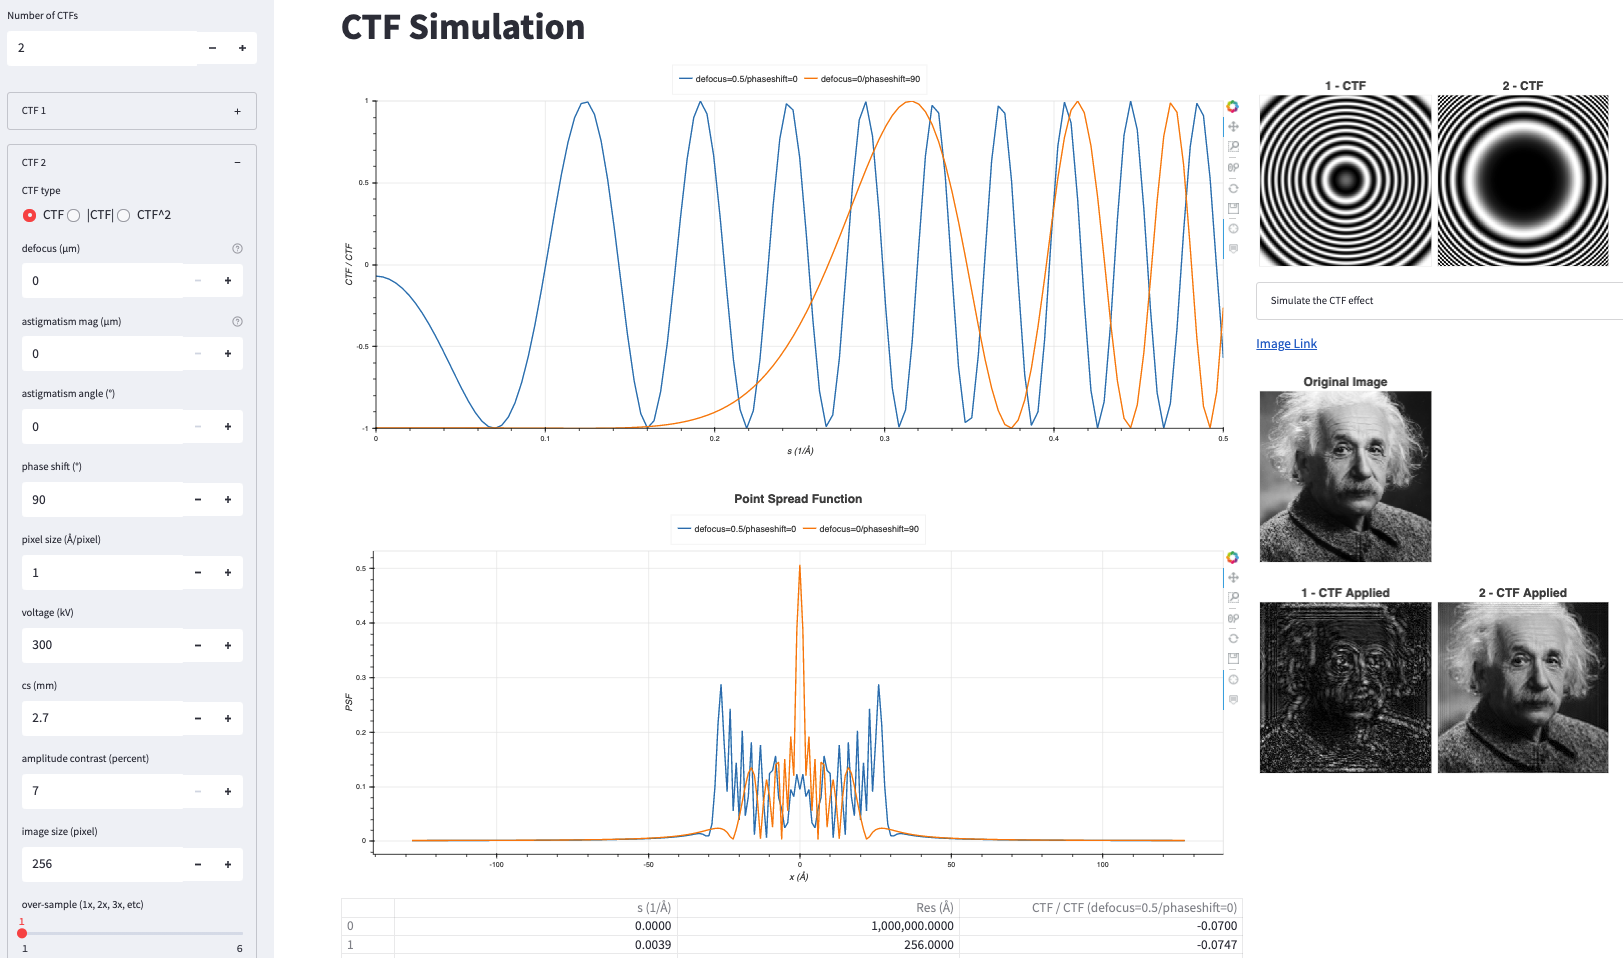
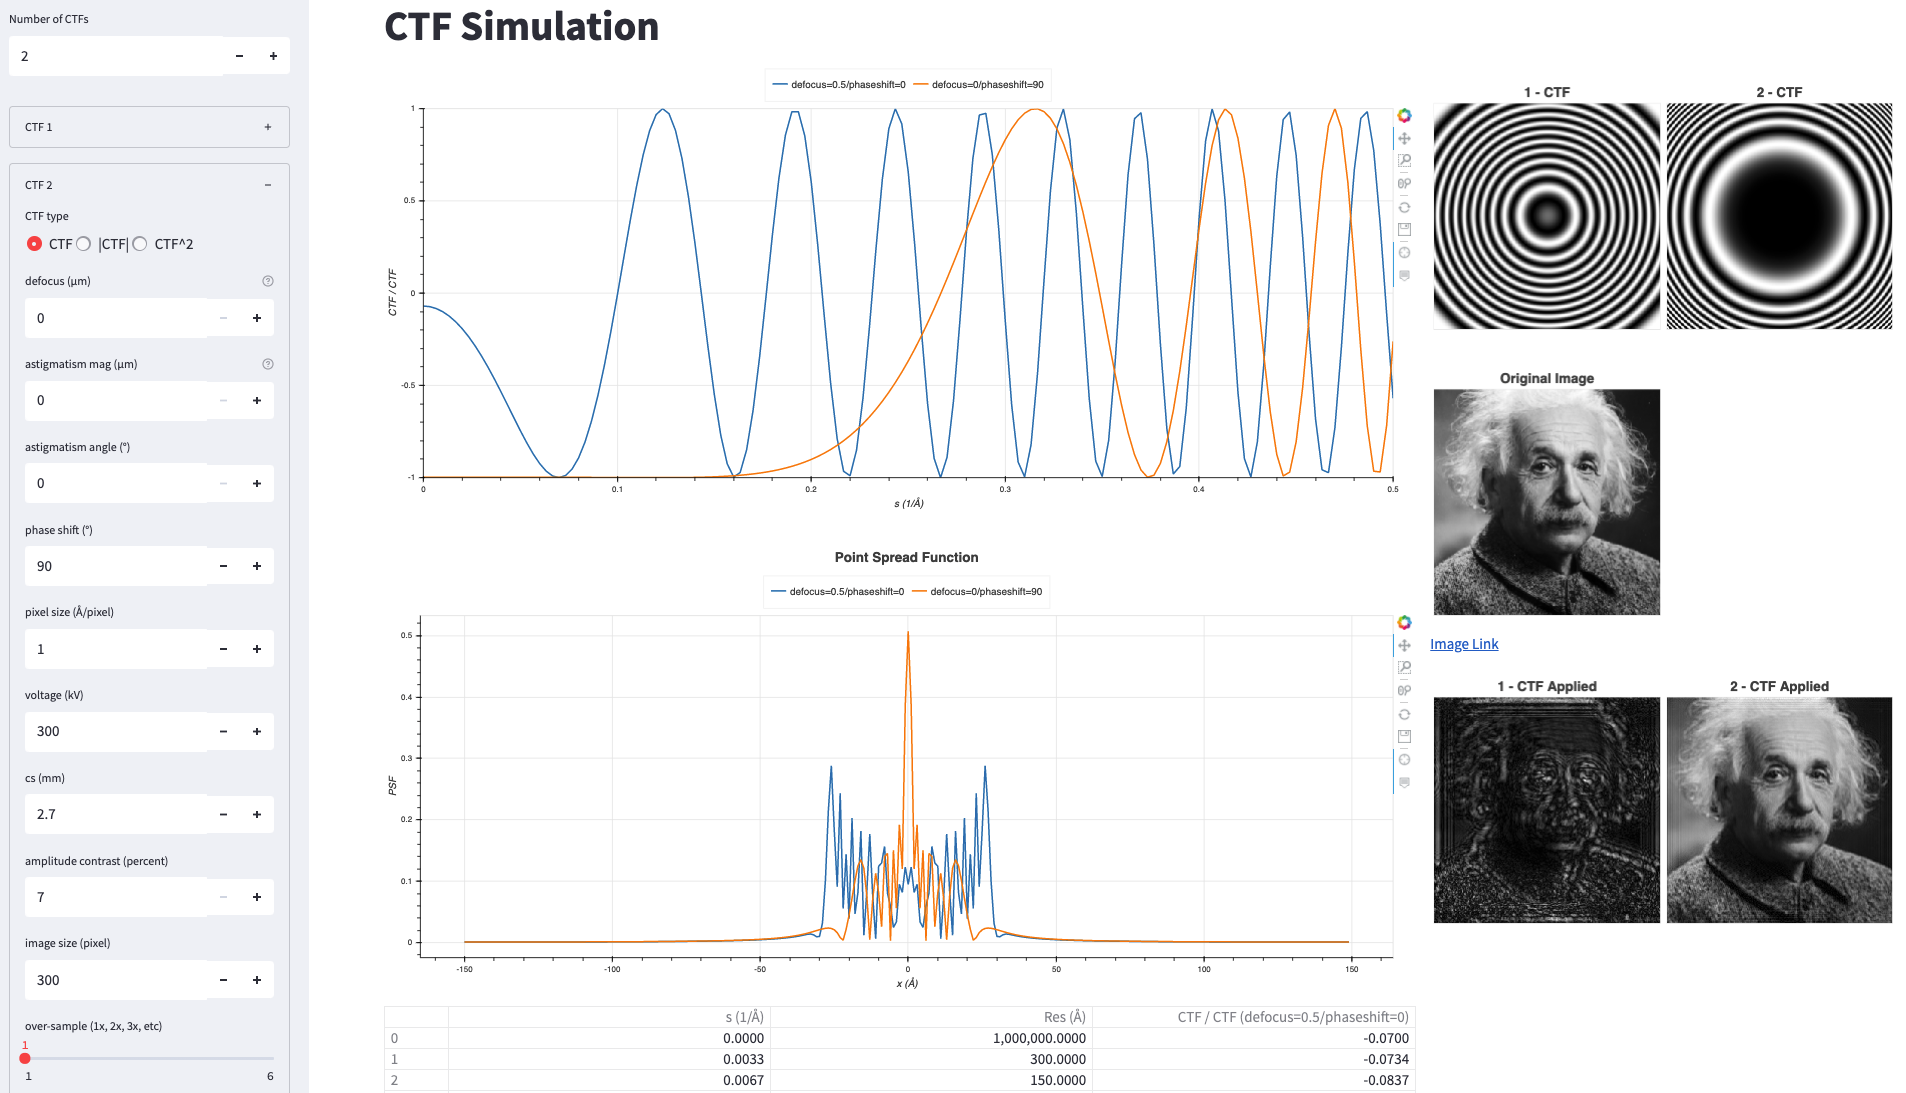
show 2D ctfs/images at the bottom or on the right

diff --git a/ctf_simulation.py b/ctf_simulation.py
@@ -46,6 +46,7 @@ import numpy as np
 def main():
     title = "CTF Simulation"
     st.set_page_config(page_title=title, layout="wide")
+    st.title(title)
 
     session_state = st.session_state
     if "defocus_0" not in session_state:  # only run once at the start of the session
@@ -56,13 +57,11 @@ def main():
     ctfs = get_ctfs_from_session_state()
 
     if embed:
-        col1, col2 = st.columns((1, 5))
-        col_info = col2
+        col_params, col_1d = st.columns((1, 5))
     else:
-        st.title(title)
-        col1 = st.sidebar
+        col_params = st.sidebar
 
-    with col1:
+    with col_params:
         if embed:
             n = 1
         else:
@@ -146,6 +145,9 @@ def main():
             if show_2d:
                 value = int(st.session_state.get("simulate_ctf_effect", 0))
                 simulate_ctf_effect = st.checkbox('Simulate CTF effect on images', value=value, key="simulate_ctf_effect")
+                if simulate_ctf_effect:
+                    simulate_ctf_effect_container = st.container()
+                show_2d_right = st.checkbox("Show 2D CTF/images on the right", value=False, key="show_2d_right")
 
             if show_1d or show_2d:
                 value = int(st.session_state.get("plot_s2", 0))
@@ -159,18 +161,14 @@ def main():
     ctf_labels = ctf_varying_parameter_labels(ctfs)
 
     if not embed:
-        if show_1d:
-            if show_2d:
-                col2, col3 = st.columns((5, 2))
-            else:
-                col2, col3 = st.columns((1, 0.01))
-            col_info = col2
+        if show_2d and show_2d_right:
+            col_1d, col_2d = st.columns((5, 2))
         else:
-            col2, col3 = st.columns((0.01, 1))
-            col_info = col3
+            col_1d, _ = st.columns((1, 0.01))
+            col_2d = col_1d
 
     if show_1d:
-        with col2:
+        with col_1d:
             from bokeh.plotting import figure
             from bokeh.models import LegendItem
             if plot_s2:
@@ -300,26 +298,10 @@ def main():
                         fig.js_on_event(DoubleTap, toggle_legend_js)
                     st.text("") # workaround for a layout bug in streamlit 
                     st.bokeh_chart(fig, use_container_width=True)
-                    del fig
-
-                if show_data:
-                    import pandas as pd
-                    for i, (col3_label, s, x, ctf) in enumerate(raw_data):
-                        columns = [x_label, "Res (Å)", col3_label]
-                        maxlen = max(map(len, columns))
-                        columns = [col.rjust(maxlen+10) for col in columns]
-                        data = np.zeros((len(x), 3))
-                        data[:,0] = x
-                        s[0] = 1e-6 # avoid divsion by zero warning
-                        data[:,1] = 1./s
-                        data[:,2] = ctf
-                        df = pd.DataFrame(data, columns=columns)
-                        st.dataframe(df, width=None)
-                        label = f"Download the data - {col3_label}"
-                        st.markdown(get_table_download_link(df, label=label), unsafe_allow_html=True)
+                    del fig                
 
     if show_2d and not embed:
-        with col3:
+        with col_2d:
             st.text("") # workaround for a layout bug in streamlit 
 
             show_color = False
@@ -349,42 +331,43 @@ def main():
                 del fig2d
             
             if simulate_ctf_effect:
-                with st.expander("Simulate the CTF effect"):
-                    input_modes = ["Pattern"]
-                    emdb_ids = get_emdb_ids()
-                    input_modes += ["EMDB ID"]
-                    if "emd_id" not in session_state:
-                        import random
-                        session_state.emd_id = random.choice(emdb_ids)
-                    input_modes += ["URL"]
-                    input_mode = st.radio(label="Choose an input mode:", options=input_modes, index=2, key="input_mode")
-                    if input_mode == "Pattern":
-                        mapping = \
-                            {   "Lens Focus Test Chart" : "https://i.ebayimg.com/images/g/~goAAOSw-o9cXayp/s-l1600.jpg", \
-                                "TV Test Signal" : "https://cdn4.vectorstock.com/images/1000x1000/67/43/1946743.jpg?download=1", \
-                                "Spiral Rainbow Sqaures" : "http://www.ulrichmutze.de/cpmgraphics/testpattern.jpg"
-                            }
-                        pattern_option = st.selectbox('Select a geometric pattern', options=["Delta Function"] + list(mapping.keys()), key="pattern")
-                        if pattern_option not in ["Delta Function"]:
-                            input_txt = mapping[pattern_option]
-                    elif input_mode == "EMDB ID":
-                        do_random_embid = st.checkbox("Choose a random EMDB ID", value=False)
-                        if do_random_embid:
-                            help = "Randomly select another EMDB ID"
-                            button_clicked = st.button(label="Change EMDB ID", help=help)
-                            if button_clicked:
-                                import random
-                                session_state.emd_id = random.choice(emdb_ids)
-                            input_txt = f"EMD-{session_state.emd_id}"
-                        else:
-                            label = "Input an EMDB ID"
-                            value = f"EMD-{session_state.emd_id}"
-                            input_txt = st.text_input(label=label, value=value).strip()
-                            session_state.emd_id = input_txt.lower().split("emd_")[-1]
-                    elif input_mode == "URL":
-                        label = "Input an image url:"
-                        value = "https://upload.wikimedia.org/wikipedia/commons/d/d3/Albert_Einstein_Head.jpg"
-                        input_txt = st.text_input(label=label, value=value, key="url").strip()
+                with simulate_ctf_effect_container:
+                    with st.expander("Specify a simulation image", expanded=False):
+                        input_modes = ["Pattern"]
+                        emdb_ids = get_emdb_ids()
+                        input_modes += ["EMDB ID"]
+                        if "emd_id" not in session_state:
+                            import random
+                            session_state.emd_id = random.choice(emdb_ids)
+                        input_modes += ["URL"]
+                        input_mode = st.radio(label="Choose an input mode:", options=input_modes, index=2, key="input_mode")
+                        if input_mode == "Pattern":
+                            mapping = \
+                                {   "Lens Focus Test Chart" : "https://i.ebayimg.com/images/g/~goAAOSw-o9cXayp/s-l1600.jpg", \
+                                    "TV Test Signal" : "https://cdn4.vectorstock.com/images/1000x1000/67/43/1946743.jpg?download=1", \
+                                    "Spiral Rainbow Sqaures" : "http://www.ulrichmutze.de/cpmgraphics/testpattern.jpg"
+                                }
+                            pattern_option = st.selectbox('Select a geometric pattern', options=["Delta Function"] + list(mapping.keys()), key="pattern")
+                            if pattern_option not in ["Delta Function"]:
+                                input_txt = mapping[pattern_option]
+                        elif input_mode == "EMDB ID":
+                            do_random_embid = st.checkbox("Choose a random EMDB ID", value=False)
+                            if do_random_embid:
+                                help = "Randomly select another EMDB ID"
+                                button_clicked = st.button(label="Change EMDB ID", help=help)
+                                if button_clicked:
+                                    import random
+                                    session_state.emd_id = random.choice(emdb_ids)
+                                input_txt = f"EMD-{session_state.emd_id}"
+                            else:
+                                label = "Input an EMDB ID"
+                                value = f"EMD-{session_state.emd_id}"
+                                input_txt = st.text_input(label=label, value=value).strip()
+                                session_state.emd_id = input_txt.lower().split("emd_")[-1]
+                        elif input_mode == "URL":
+                            label = "Input an image url:"
+                            value = "https://upload.wikimedia.org/wikipedia/commons/d/d3/Albert_Einstein_Head.jpg"
+                            input_txt = st.text_input(label=label, value=value, key="url").strip()
                 
                 image = None
                 link = None
@@ -414,13 +397,15 @@ def main():
                         st.warning(f"{url} is not a valid image link")
                 elif len(input_txt):
                     st.warning(f"{input_txt} is not a valid image link")
+                
                 if image is not None:
+                    st.text("") # workaround for a layout bug in streamlit 
                     import_with_auto_install(["skimage:scikit_image"])
-                    if link: st.markdown(link, unsafe_allow_html=True)
                     image = normalize(image)
                     fig2d = generate_image_figure(image, dxy=1.0, ctf_type=None, title="Original Image", plot_s2=False, show_color=show_color)
                     st.bokeh_chart(fig2d, use_container_width=True)
                     del fig2d
+                    if link: st.markdown(link, unsafe_allow_html=True)
 
                     fig2ds = []
                     for i in range(n):
@@ -448,11 +433,26 @@ def main():
                     else:
                         st.bokeh_chart(fig2d, use_container_width=True)
                         del fig2d
+    
+    if not embed and show_1d and show_data:
+        with col_1d:
+            import pandas as pd
+            for i, (col3_label, s, x, ctf) in enumerate(raw_data):
+                columns = [x_label, "Res (Å)", col3_label]
+                maxlen = max(map(len, columns))
+                columns = [col.rjust(maxlen+10) for col in columns]
+                data = np.zeros((len(x), 3))
+                data[:,0] = x
+                s[0] = 1e-6 # avoid divsion by zero warning
+                data[:,1] = 1./s
+                data[:,2] = ctf
+                df = pd.DataFrame(data, columns=columns)
+                st.dataframe(df, width=None)
+                label = f"Download the data - {col3_label}"
+                st.markdown(get_table_download_link(df, label=label), unsafe_allow_html=True)
 
-    with col_info:
         if not embed:
             st.markdown("**Learn more about [Contrast Transfer Function (CTF)](https://en.wikipedia.org/wiki/Contrast_transfer_function):**\n* [Getting Started in CryoEM, Grant Jensen](https://www.youtube.com/watch?v=mPynoF2j6zc&t=2s)\n* [CryoEM Principles, Fred Sigworth](https://www.youtube.com/watch?v=Y8wivQTJEHQ&list=PLRqNpJmSRfar_z87-oa5W421_HP1ScB25&index=5)\n")
-
         st.markdown("*Developed by the [Jiang Lab@Purdue University](https://jiang.bio.purdue.edu/ctf-simulation). Report problems to Wen Jiang (jiang12 at purdue.edu)*")
 
     hide_streamlit_style = """
@@ -598,6 +598,8 @@ def set_query_parameters(ctfs):
         d["show_1d"] = 0
     if state.show_2d:
         d["show_2d"] = 1
+        if state.show_2d_right:
+            d["show_2d_right"] = 1
         if state.simulate_ctf_effect:
             d["simulate_ctf_effect"] = 1
             if state.input_mode == "URL":
@@ -643,7 +645,7 @@ def parse_query_parameters():
                         setattr(ctfs[i], attr, int(query_params[attr][i]))
                     else:
                         setattr(ctfs[i], attr, float(query_params[attr][i]))
-    int_types = "show_1d show_2d show_psf plot_s2 rotavg simulate_ctf_effect".split()
+    int_types = "show_1d show_2d show_2d_right show_psf plot_s2 rotavg simulate_ctf_effect".split()
     other_attrs = [ attr for attr in query_params if attr not in ctf_attrs ]
     for attr in other_attrs:
         if attr == "embed":

diff --git a/README.md b/README.md
@@ -1,12 +1,12 @@
 # CTF Simulation
-This Web app provides interactive online simulation of the [contrast transfer function (CTF)](https://en.wikipedia.org/wiki/Contrast_transfer_function) of transmission electron microscopes.
+This Web app provides an interactive online simulation of the [contrast transfer function (CTF)](https://en.wikipedia.org/wiki/Contrast_transfer_function) of transmission electron microscopes.
 
 Click one of these hosting links (<a href="https://share.streamlit.io/wjiang/ctf-simulation">Host 1</a> | <a href="https://ctf-simulation.herokuapp.com">Host 2</a>) to explore CTF function!</a>
 
-<a href="https://share.streamlit.io/wjiang/ctf-simulation"><img src="./ctf_simulation.png" style='width: 100%; object-fit: contain'></a>
+<a href="https://ctf-simulation.herokuapp.com/?show_psf=1&show_2d=1&show_2d_right=1&simulate_ctf_effect=1&defocus=0.5&defocus=0.0&phaseshift=0.0&phaseshift=90.0&imagesize=300&imagesize=300"><img src="./ctf_simulation.png" style='width: 100%; object-fit: contain'></a>
 
 ---
 You can also embed the Web app into your own Website using an [iframe](https://www.w3schools.com/tags/tag_iframe.asp), for example using the following code
 ```html
-<iframe src="https://ctf-simulation.herokuapp.com/?embed=true" style='width: 100%; height: 740px; overflow: visible; margin: 0px; resize: both; border-style:none;'></iframe>
+<iframe src="https://ctf-simulation.herokuapp.com/?embed=1" style='width: 100%; height: 740px; overflow: visible; margin: 0px; resize: both; border-style:none;'></iframe>
 ```
